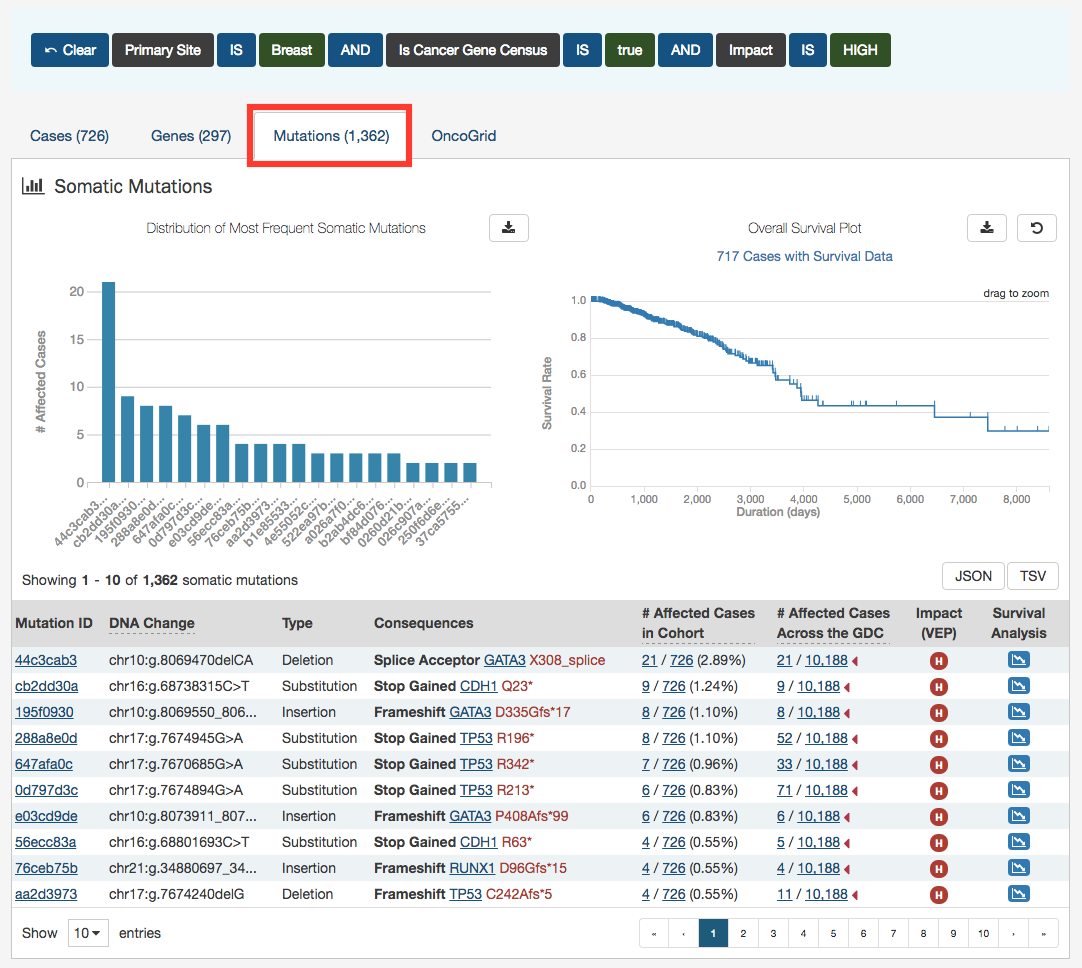
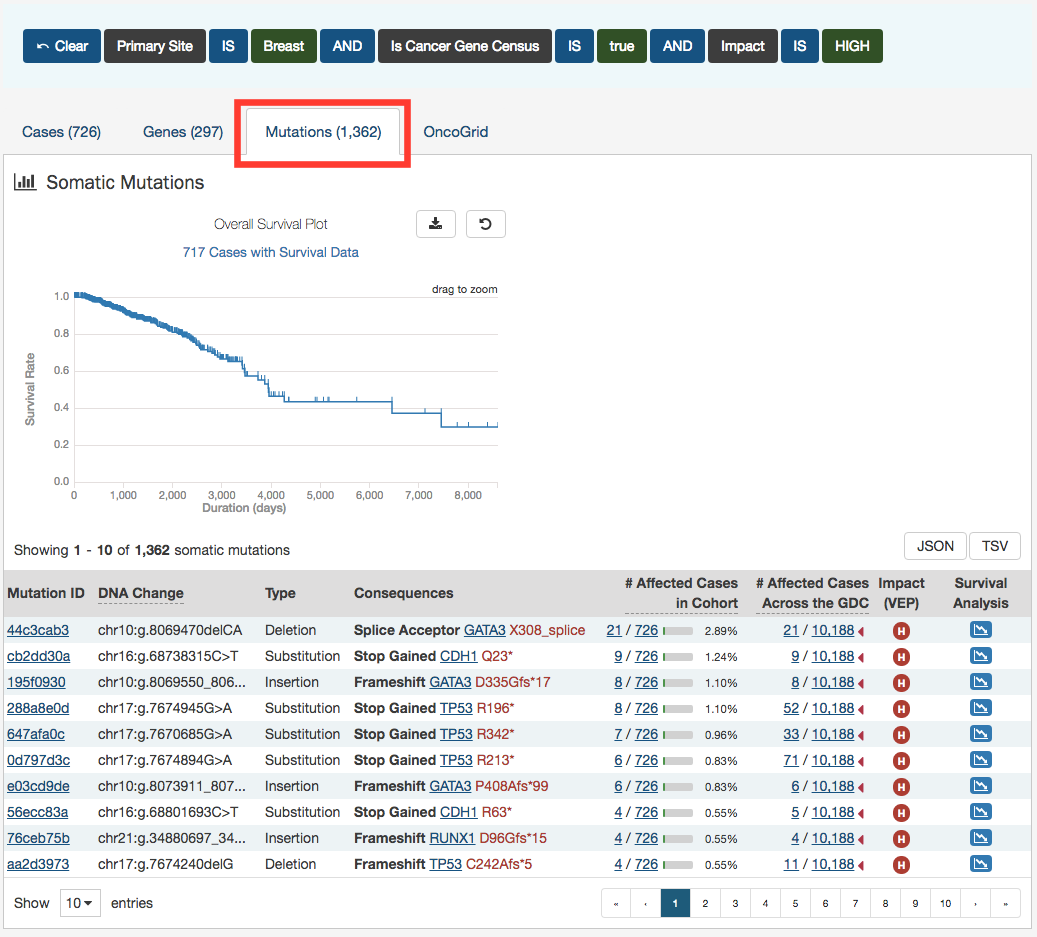
Updated images for most frequent mutation images

diff --git a/docs/Data_Portal/Users_Guide/Exploration.md b/docs/Data_Portal/Users_Guide/Exploration.md
@@ -118,7 +118,7 @@ The `Mutations` tab will give an overview of all the mutations who match the cri
 
 [![Exploration Mutation Example](images/Exploration-Mutation-Example.png)](images/Exploration-Mutation-Example.png "Click to see the full image.")
 
-At the top of this tab is a bar graph of the 20 most frequent somatic mutations in the cohort as a bar graph that indicates the percentage of cases that are affected by each mutation. Hovering over each bar in the plot will show information about the number of cases affected.  The top of this tab also includes a survival plot of all the cases within the specified exploration page filters.
+At the top of this tab is a survival plot of all the cases within the specified exploration page filters.
 
 A table is displayed below that lists information about each mutation:
 
@@ -126,7 +126,7 @@ A table is displayed below that lists information about each mutation:
 * __DNA Change:__ The chromosome and starting coordinates of the mutation are displayed along with the nucleotide differences between the reference and tumor allele
 * __Type:__ A general classification of the mutation
 * __Consequences:__ The effects the mutation has on the gene coding for a protein (i.e. synonymous, missense, non-coding transcript).  A link to the Gene Summary Page for the gene affected by the mutation is included
-* __# Affected Cases in Cohort:__ The number of affected cases in the Cohort
+* __# Affected Cases in Cohort:__ The number of affected cases in the Cohort as a fraction and as a percentage
 * __# Affected Cases in Across all Projects:__ The number of affected cases, expressed as number across all projects. This information comes from the [Ensembl VEP](http://www.ensembl.org/info/genome/variation/predicted_data.html). Choosing the arrow next to the percentage will display a breakdown of each affected project
 * __Impact (VEP):__ A subjective classification of the severity of the variant consequence. The categories are:
     * __HIGH (H)__: The variant is assumed to have high (disruptive) impact in the protein, probably causing protein truncation, loss of function, or triggering nonsense mediated decay

diff --git a/docs/Data_Portal/Users_Guide/Projects.md b/docs/Data_Portal/Users_Guide/Projects.md
@@ -131,7 +131,8 @@ The calculated cumulated survival probability can be plotted against the interva
 
 
 ### Most Frequent Mutations
-The Project Summary page also displays the 20 most frequent mutations in the project as a bar graph that indicates the number of cases that are affected by each mutation. Hovering over each bar in the plot will show information about the number of cases affected.
+
+At the top of this section is a survival plot of all the cases within the specified exploration page filters.
 
 [![Most Frequent Mutations](images/gdc-frequent-mutations.png)](images/gdc-frequent-mutations.png "Click to see the full image.")
 
@@ -141,7 +142,7 @@ A table is displayed below that lists information about each mutation:
 * __DNA Change:__ The chromosome and starting coordinates of the mutation are displayed along with the nucleotide differences between the reference and tumor allele
 * __Type:__ A general classification of the mutation
 * __Consequences:__ The effects the mutation has on the gene coding for a protein (i.e. synonymous, missense, non-coding transcript).  A link to the Gene Summary Page for the gene affected by the mutation is included
-* __# Affected Cases in Project:__ The number of affected cases in the project
+* __# Affected Cases in Project:__ The number of affected cases in the project expressed as a fraction and percentage
 * __# Affected Cases in Across the GDC:__ The number of affected cases, expressed as number across all projects. Choosing the arrow next to the percentage will display a breakdown of each affected project
 * __Impact (VEP):__ A subjective classification of the severity of the variant consequence. This information comes from the [Ensembl VEP](http://www.ensembl.org/info/genome/variation/predicted_data.html). The categories are:
     * __HIGH (H)__: The variant is assumed to have high (disruptive) impact in the protein, probably causing protein truncation, loss of function, or triggering nonsense mediated decay

diff --git a/docs/Data_Portal/Users_Guide/GeneEntity.md b/docs/Data_Portal/Users_Guide/GeneEntity.md
@@ -41,7 +41,7 @@ The plot can be viewed at different zoom levels by clicking and dragging across 
 
 ## Most Frequent Mutations
 
-The 20 most frequent mutations in the gene are displayed as a bar graph that indicates the number of cases that share each mutation.  
+The most frequent somatic mutations in the gene are displayed in a tabular view at the bottom of the page.
 
 [![Gene MFM](images/GDC-Gene-MFM.png)](images/GDC-Gene-MFM.png "Click to see the full image.")
 
@@ -51,7 +51,7 @@ A table is displayed below that lists information about each mutation including:
 * __DNA Change:__ The chromosome and starting coordinates of the mutation are displayed along with the nucleotide differences between the reference and tumor allele
 * __Type:__ A general classification of the mutation
 * __Consequences:__ The effects the mutation has on the gene coding for a protein (i.e. synonymous, missense, non-coding transcript)
-* __# Affected Cases in Gene:__ The number of affected cases, expressed as number across all mutations within the Gene
+* __# Affected Cases in Gene:__ The number of affected cases, expressed as number and percentage across all mutations within the gene
 * __# Affected Cases Across GDC:__ The number of affected cases, expressed as number across all projects. Choosing the arrow next to the percentage will expand the selection with a breakdown of each affected project
 * __Impact:__ A subjective classification of the severity of the variant consequence. The categories are:
   - __HIGH__: The variant is assumed to have high (disruptive) impact in the protein, probably causing protein truncation, loss of function or triggering nonsense mediated decay
